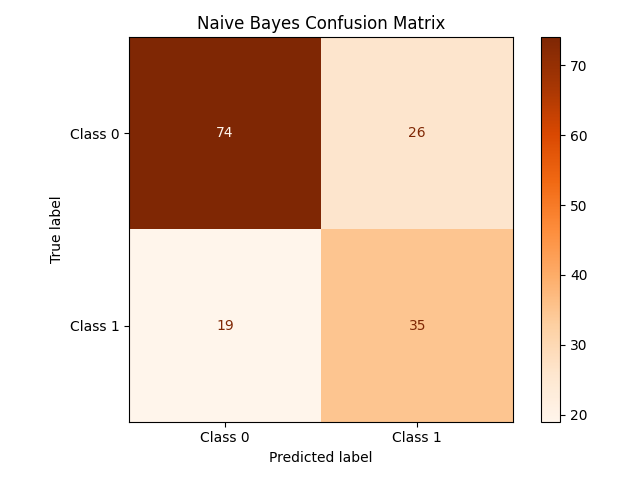
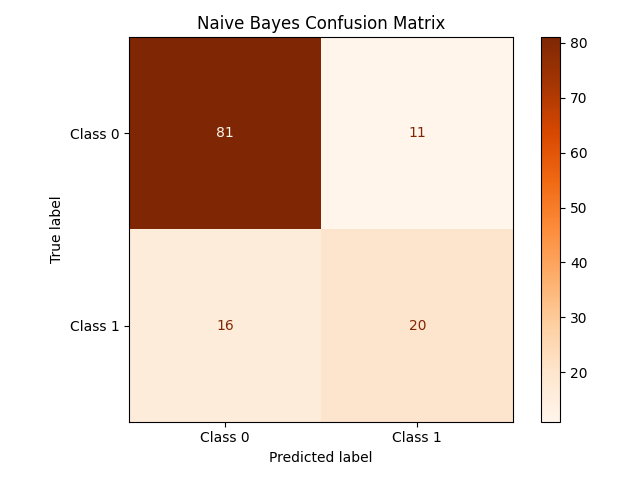
optimize demo: load pre-trained models and cache evaluation plots dynamically by k

diff --git a/app.py b/app.py
@@ -1,3 +1,5 @@
+import json
+import pickle
 from pathlib import Path
 import numpy as np
 import pandas as pd
@@ -7,18 +9,172 @@ from models.k_nearest_neighbor.preprocess import FEATURE_COLUMNS
 from models.k_nearest_neighbor.train import train_knn_model
 from models.naive_bayes.src.train import train_naive_bayes_model
 
+KNN_ARTIFACTS_DIR = Path("models/k_nearest_neighbor/artifacts")
+KNN_LOGS_DIR = Path("models/k_nearest_neighbor/logs")
+NB_ARTIFACTS_DIR = Path("models/naive_bayes/artifacts")
+NB_LOGS_DIR = Path("models/naive_bayes/logs")
 
 st.set_page_config(page_title="Diabetes Prediction", layout="wide")
 
 
 @st.cache_resource
 def get_knn_result(tune_k, k):
-    return train_knn_model(k=k, tune_k=tune_k)
+    model_path = KNN_ARTIFACTS_DIR / "knn_model.pkl"
+    log_path = KNN_LOGS_DIR / "training_results.jsonl"
+    
+    # Load model payload
+    with open(model_path, "rb") as f:
+        payload = pickle.load(f)
+    
+    # Load logs to get default/baseline parameters if needed
+    records = []
+    if log_path.exists():
+        with open(log_path, "r", encoding="utf-8") as f:
+            for line in f:
+                line = line.strip()
+                if line:
+                    records.append(json.loads(line))
+                    
+    matched_record = None
+    for record in reversed(records):
+        log_params = record.get("params", {})
+        if log_params.get("tune_k") == tune_k:
+            if tune_k or log_params.get("k") == k:
+                matched_record = record
+                break
+                
+    if matched_record is None and records:
+        matched_record = records[-1]
+        
+    # Determine the target k
+    if k is not None:
+        target_k = k
+    elif matched_record:
+        target_k = matched_record["params"]["k"]
+    else:
+        target_k = 13  # Default fallback if no logs/parameters exist
+        
+    # Load test data and compute metrics dynamically to ensure they match target_k
+    from models.k_nearest_neighbor.preprocess import prepare_diabetes_data
+    from models.k_nearest_neighbor.evaluate import evaluate_predictions
+    
+    # Final model data (using selected features)
+    data = prepare_diabetes_data(
+        feature_columns=payload["feature_columns"],
+        test_size=0.3,
+        random_state=666,
+    )
+    
+    # Update loaded model's k and evaluate
+    model = payload["model"]
+    model.n_neighbors = target_k
+    model.k = target_k
+    y_pred = model.predict(data["X_test"])
+    test_metrics = evaluate_predictions(data["y_test"], y_pred)
+    
+    # Baseline model data (using all features)
+    all_feature_data = prepare_diabetes_data(
+        feature_columns=FEATURE_COLUMNS,
+        test_size=0.3,
+        random_state=666,
+    )
+    from models.k_nearest_neighbor.knn import KNeighborsClassifier
+    baseline_model = KNeighborsClassifier(k=target_k)
+    baseline_model.fit(all_feature_data["X_train"], all_feature_data["y_train"])
+    baseline_pred = baseline_model.predict(all_feature_data["X_test"])
+    baseline_test_metrics = evaluate_predictions(all_feature_data["y_test"], baseline_pred)
+    
+    # Paths for plots corresponding to this target_k
+    confusion_matrix_plot_path = KNN_ARTIFACTS_DIR / f"confusion_matrix_k{target_k}.png"
+    decision_boundary_plot_path = KNN_ARTIFACTS_DIR / f"decision_boundary_k{target_k}.png"
+    
+    # Generate and save plots if they don't exist
+    if not confusion_matrix_plot_path.exists():
+        from models.k_nearest_neighbor.evaluate import save_confusion_matrix_plot
+        save_confusion_matrix_plot(
+            data["y_test"],
+            y_pred,
+            confusion_matrix_plot_path,
+            title=f"Confusion Matrix (k={target_k})",
+        )
+        
+    if not decision_boundary_plot_path.exists():
+        from models.k_nearest_neighbor.evaluate import save_decision_boundary_plot
+        boundary_data = prepare_diabetes_data(
+            feature_columns=payload["feature_columns"][:2],
+            test_size=0.3,
+            random_state=666,
+        )
+        boundary_model = KNeighborsClassifier(k=target_k)
+        boundary_model.fit(boundary_data["X_train"], boundary_data["y_train"])
+        save_decision_boundary_plot(
+            boundary_model,
+            boundary_data["X_train"],
+            boundary_data["y_train"],
+            decision_boundary_plot_path,
+            feature_names=boundary_data["feature_columns"],
+            k=target_k,
+        )
+        
+    # Other standard paths
+    cv_plot_path = KNN_ARTIFACTS_DIR / "knn_cv_accuracy.png"
+    correlation_plot_path = KNN_ARTIFACTS_DIR / "feature_correlation_heatmap.png"
+    selected_features_path = KNN_ARTIFACTS_DIR / "selected_features.json"
+    
+    result = {
+        "model": model,
+        "scaler": payload["scaler"],
+        "feature_columns": payload["feature_columns"],
+        "class_labels": payload["class_labels"],
+        "k": target_k,
+        "baseline_k": matched_record["baseline_tuning_result"]["best_k"] if (matched_record and matched_record.get("baseline_tuning_result")) else target_k,
+        "test_metrics": test_metrics,
+        "baseline_test_metrics": baseline_test_metrics,
+        "confusion_matrix_plot_path": confusion_matrix_plot_path,
+        "decision_boundary_plot_path": decision_boundary_plot_path,
+        "cv_plot_path": cv_plot_path,
+        "correlation_plot_path": correlation_plot_path,
+        "selected_features_path": selected_features_path,
+        "model_path": model_path,
+        "log_path": log_path,
+    }
+    return result
 
 
 @st.cache_resource
 def get_nb_result():
-    return train_naive_bayes_model()
+    model_path = NB_ARTIFACTS_DIR / "nb_model.pkl"
+    log_path = NB_LOGS_DIR / "training_results.jsonl"
+    
+    # Load model payload
+    with open(model_path, "rb") as f:
+        payload = pickle.load(f)
+        
+    # Load logs
+    records = []
+    if log_path.exists():
+        with open(log_path, "r", encoding="utf-8") as f:
+            for line in f:
+                line = line.strip()
+                if line:
+                    records.append(json.loads(line))
+                    
+    matched_record = records[-1] if records else None
+    
+    if matched_record:
+        return {
+            "model": payload["model"],
+            "scaler": payload["scaler"],
+            "feature_columns": payload["feature_columns"],
+            "class_labels": payload["class_labels"],
+            "test_metrics": matched_record["test_metrics"],
+            "confusion_matrix_plot_path": Path(matched_record["confusion_matrix_plot_path"]) if matched_record.get("confusion_matrix_plot_path") else NB_ARTIFACTS_DIR / "confusion_matrix.png",
+            "decision_boundary_plot_path": Path(matched_record["decision_boundary_plot_path"]) if matched_record.get("decision_boundary_plot_path") else NB_ARTIFACTS_DIR / "decision_boundary.png",
+            "model_path": model_path,
+            "log_path": log_path,
+        }
+    else:
+        return train_naive_bayes_model()
 
 
 def get_relative_path(path_str):
@@ -159,6 +315,7 @@ elif page == "Model Performance":
     )
 
     st.subheader("Model Performance Comparison")
+    st.markdown(f"**Các đặc trưng được PSO lựa chọn cho mô hình KNN:** {', '.join(knn_result['feature_columns'])}")
     st.dataframe(metrics_df, use_container_width=True)
 
     st.subheader("Metric Comparison")
@@ -198,6 +355,7 @@ elif page == "Model Performance":
         st.caption(f"Confusion matrix plot: {knn_result['confusion_matrix_plot_path']}")
         st.caption(f"Decision boundary plot: {knn_result['decision_boundary_plot_path']}")
         st.caption(f"Selected features file: {knn_result['selected_features_path']}")
+        st.caption(f"Selected features: {', '.join(knn_result['feature_columns'])}")
         st.caption(f"Training log: {knn_result['log_path']}")
     with col2:
         st.markdown("**Naive Bayes Artifacts:**")

diff --git a/models/k_nearest_neighbor/train.py b/models/k_nearest_neighbor/train.py
@@ -30,6 +30,77 @@ from models.k_nearest_neighbor.evaluate import (
 DEFAULT_MODEL_DIR = KNN_ROOT / "artifacts"
 DEFAULT_LOG_DIR = KNN_ROOT / "logs"
 
+def load_cached_results(model_dir, log_dir, params):
+    model_dir = Path(model_dir)
+    log_dir = Path(log_dir)
+    model_path = model_dir / "knn_model.pkl"
+    selected_features_path = model_dir / "selected_features.json"
+    cv_plot_path = model_dir / "knn_cv_accuracy.png"
+    correlation_plot_path = model_dir / "feature_correlation_heatmap.png"
+    confusion_matrix_plot_path = model_dir / "confusion_matrix.png"
+    decision_boundary_plot_path = model_dir / "decision_boundary.png"
+    log_path = log_dir / "training_results.jsonl"
+    
+    required_files = [
+        model_path, selected_features_path, cv_plot_path,
+        correlation_plot_path, confusion_matrix_plot_path,
+        decision_boundary_plot_path, log_path
+    ]
+    if not all(f.exists() for f in required_files):
+        return None
+        
+    try:
+        last_record = None
+        with log_path.open("r", encoding="utf-8") as file:
+            for line in file:
+                line = line.strip()
+                if line:
+                    last_record = json.loads(line)
+        if not last_record:
+            return None
+            
+        log_params = last_record.get("params", {})
+        for key in ["tune_k", "test_size", "random_state"]:
+            if log_params.get(key) != params.get(key):
+                return None
+        if params.get("k") is not None and log_params.get("k") != params.get("k"):
+            return None
+            
+        with model_path.open("rb") as file:
+            payload = pickle.load(file)
+            
+        with selected_features_path.open("r", encoding="utf-8") as file:
+            feature_selection_result = json.load(file)
+            
+        return {
+            "model": payload["model"],
+            "scaler": payload["scaler"],
+            "metrics": last_record["test_metrics"],
+            "test_metrics": last_record["test_metrics"],
+            "baseline_test_metrics": last_record["baseline_test_metrics"],
+            "metric_deltas": last_record["metric_deltas"],
+            "classification_details": last_record["classification_details"],
+            "feature_columns": payload["feature_columns"],
+            "all_feature_columns": FEATURE_COLUMNS,
+            "class_labels": payload["class_labels"],
+            "test_predictions": [],
+            "test_labels": [],
+            "k": last_record["params"]["k"],
+            "baseline_k": last_record["baseline_tuning_result"]["best_k"] if last_record.get("baseline_tuning_result") else last_record["params"]["k"],
+            "tuning_result": last_record.get("baseline_tuning_result"),
+            "feature_selection_result": feature_selection_result,
+            "feature_target_correlations": feature_selection_result.get("feature_target_correlations", {}),
+            "selected_features_path": selected_features_path,
+            "correlation_plot_path": correlation_plot_path,
+            "confusion_matrix_plot_path": confusion_matrix_plot_path,
+            "decision_boundary_plot_path": decision_boundary_plot_path,
+            "cv_plot_path": cv_plot_path,
+            "model_path": model_path,
+            "log_path": log_path,
+        }
+    except Exception:
+        return None
+
 def train_knn_model(
     k=None,
     tune_k=True,
@@ -45,6 +116,19 @@ def train_knn_model(
     model_dir=DEFAULT_MODEL_DIR,
     log_dir=DEFAULT_LOG_DIR,
 ):
+    # Try loading cached results first
+    current_params = {
+        "k": k,
+        "tune_k": tune_k,
+        "test_size": test_size,
+        "random_state": random_state,
+    }
+    cached = load_cached_results(model_dir, log_dir, current_params)
+    if cached is not None:
+        if verbose:
+            print("Loaded results from pre-trained cache.")
+        return cached
+
     # Prepare all features data
     all_feature_data = prepare_diabetes_data(
         dataset_path=dataset_path,
@@ -99,27 +183,38 @@ def train_knn_model(
         selected_k,
     )
 
-    # 2. PSO Feature Selection
+    # 2. PSO Feature Selection (load from cache if available to skip slow search)
     selected_features = FEATURE_COLUMNS
     if select_features:
-        feature_selection_result = select_features_with_pso(
-            all_feature_data["X_train"],
-            all_feature_data["y_train"],
-            feature_columns=FEATURE_COLUMNS,
-            best_k=selected_k,
-            num_particles=15,
-            max_iter=30,
-            random_state=42,
-        )
-        selected_features = feature_selection_result["selected_features"]
-        selected_k = feature_selection_result["best_k"]
-        selected_features_path = save_feature_selection_result(
-            {
-                **feature_selection_result,
-                "feature_target_correlations": feature_target_correlations,
-            },
-            Path(model_dir) / "selected_features.json",
-        )
+        selected_features_path = Path(model_dir) / "selected_features.json"
+        if selected_features_path.exists():
+            try:
+                with selected_features_path.open("r", encoding="utf-8") as file:
+                    feature_selection_result = json.load(file)
+                selected_features = feature_selection_result["selected_features"]
+                if verbose:
+                    print(f"Loaded pre-computed PSO selected features: {selected_features}")
+            except Exception:
+                feature_selection_result = None
+
+        if feature_selection_result is None:
+            feature_selection_result = select_features_with_pso(
+                all_feature_data["X_train"],
+                all_feature_data["y_train"],
+                feature_columns=FEATURE_COLUMNS,
+                best_k=selected_k,
+                num_particles=15,
+                max_iter=30,
+                random_state=42,
+            )
+            selected_features = feature_selection_result["selected_features"]
+            selected_features_path = save_feature_selection_result(
+                {
+                    **feature_selection_result,
+                    "feature_target_correlations": feature_target_correlations,
+                },
+                Path(model_dir) / "selected_features.json",
+            )
 
     # Prepare selected features dataset
     selected_data = prepare_diabetes_data(